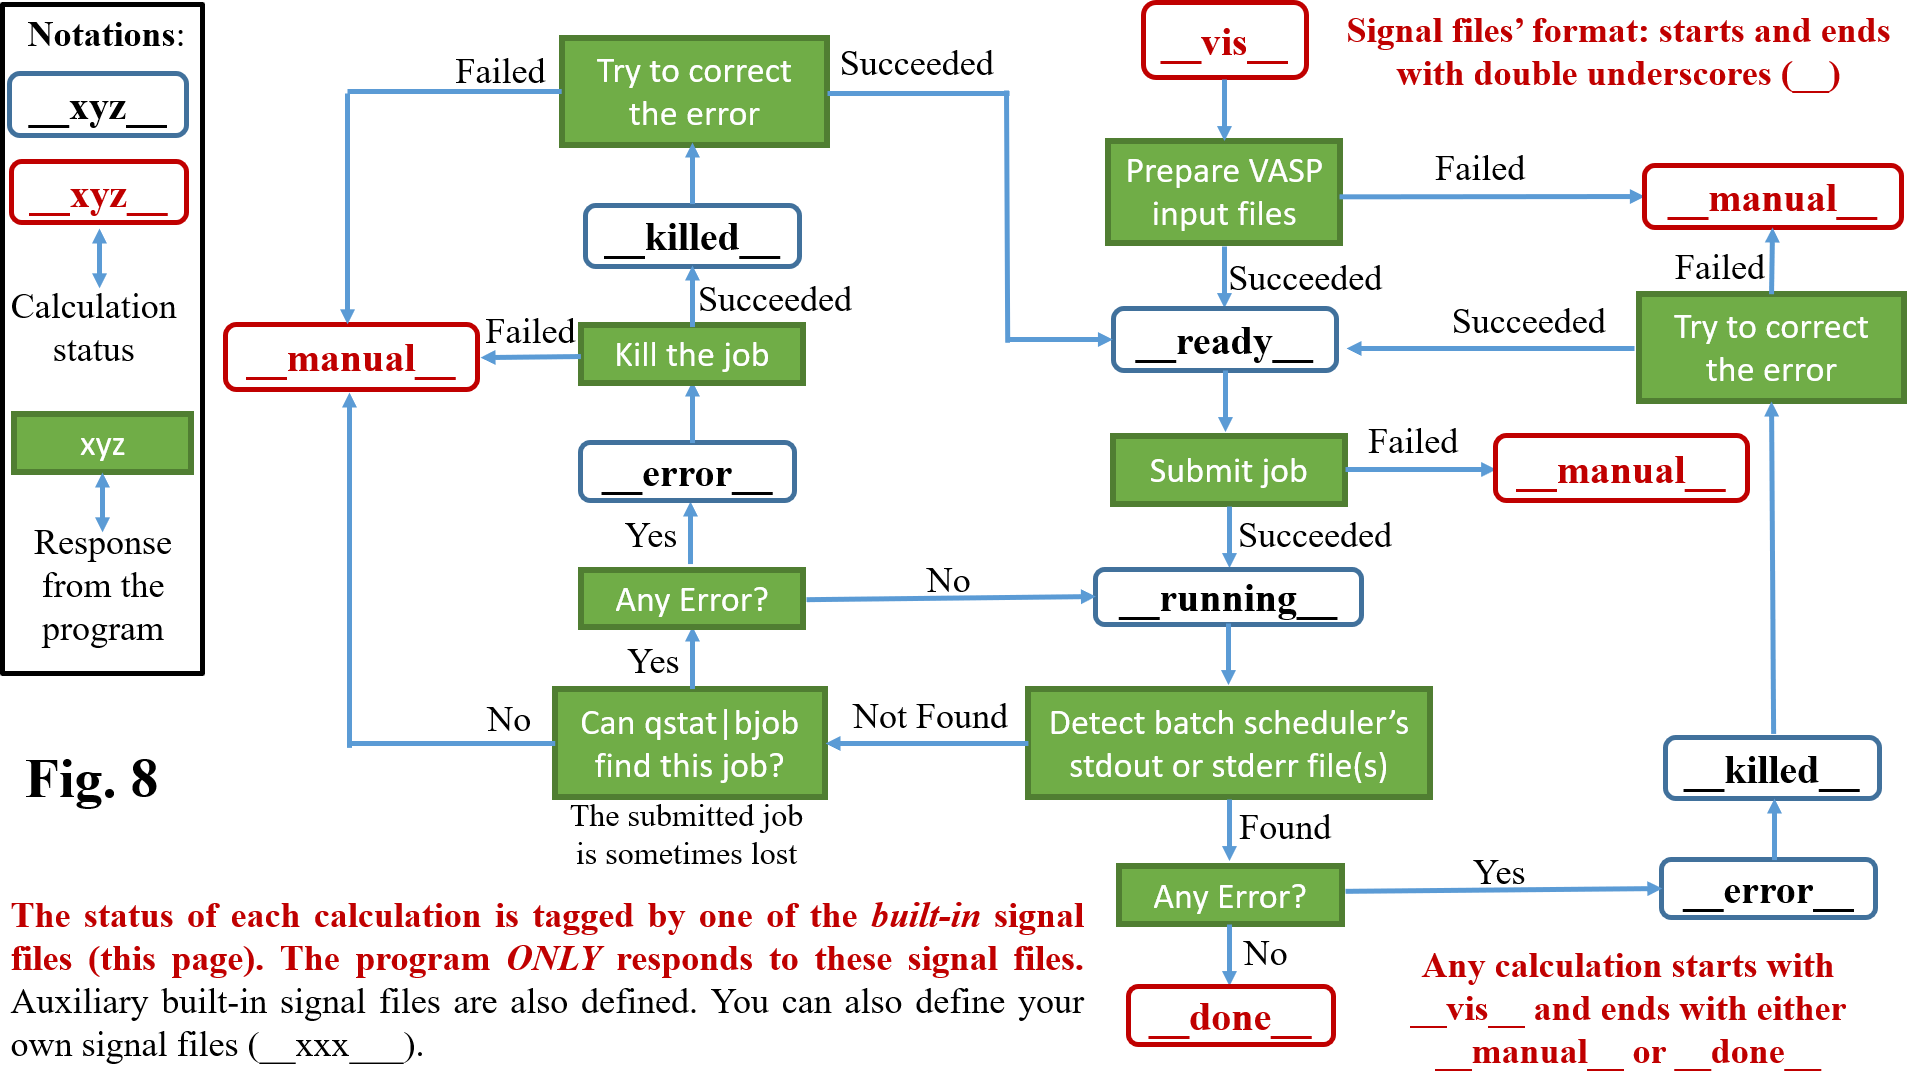
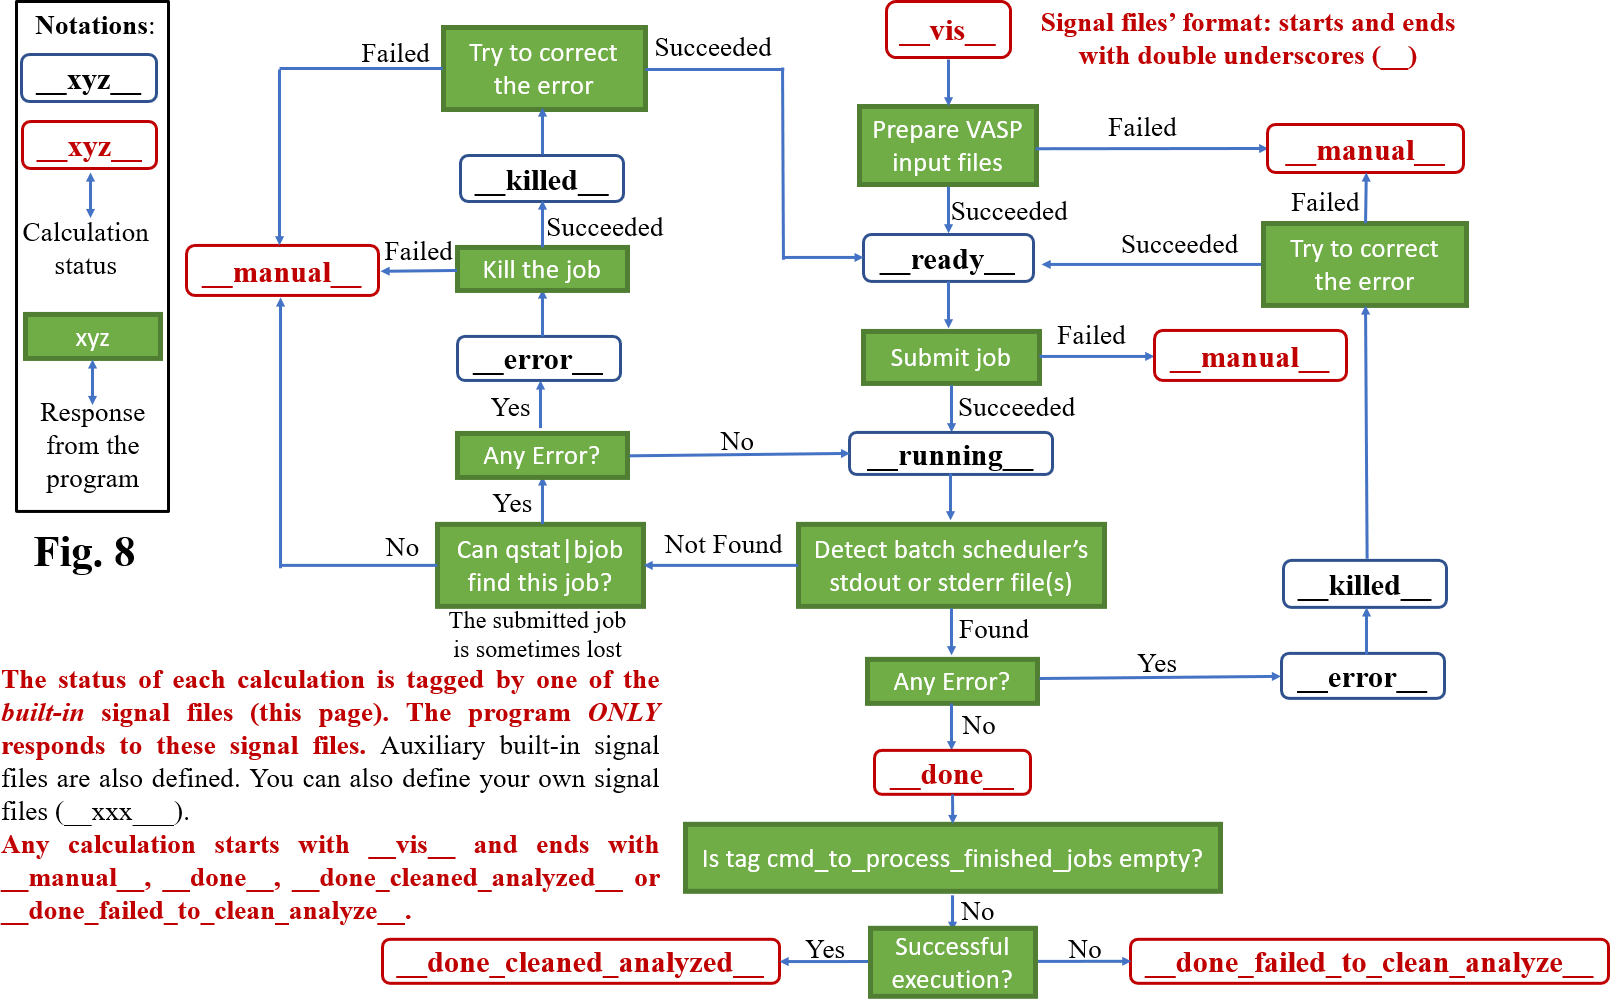
create tag cmd_to_process_finished_jobs to clean and analyze successfully finished calculations

diff --git a/HTC_lib/VASP/Job_Management/Check_and_update_calculation_status.py b/HTC_lib/VASP/Job_Management/Check_and_update_calculation_status.py
@@ -38,6 +38,7 @@ def update_job_status(cal_folder, workflow):
     job_status_dict = check_calculations_status(cal_folder=cal_folder)
     update_killed_jobs_status(killed_jobs_list=job_status_dict["killed_folder_list"], workflow=workflow)
     update_sub_dir_cal_jobs_status(sub_dir_cal_jobs_list=job_status_dict["sub_dir_cal_folder_list"], workflow=workflow)
+    clean_analyze_or_update_successfully_finished_jobs(done_jobs_list=job_status_dict["done_folder_list"], workflow=workflow)
 
 
 # In[2]:
@@ -114,13 +115,16 @@ def check_calculations_status(cal_folder):
         - killed_folder_list (list): a list of absolute pathes where the calculation has been killed.
         - manual_folder_list (list): a list of absolute pathes where the error can not be fixed automatically.
         - vis_folder_list (list): a list of absolute pathes where the input files for calculations need to be prepared
+        - ...
     """
     signal_file_list = ["__manual__", "__test__", "__vis__", "__skipped__", "__ready__", "__prior_ready__", "__sub_dir_cal__",
-                        "__error__", "__running__", "__done__", "__killed__"]
+                        "__error__", "__running__", "__done__", "__done_cleaned_analyzed__", "__done_failed_to_clean_analyze__", "__killed__"]
     job_status_folder_list = ["manual_folder_list", "test_folder_list", "vis_folder_list", "skipped_folder_list", 
                               "ready_folder_list", "prior_ready_folder_list", "sub_dir_cal_folder_list", "error_folder_list", "running_folder_list", 
-                              "done_folder_list", "killed_folder_list", "other_folder_list"]
+                              "done_folder_list", "done_cleaned_analyzed_folder_list", "done_failed_to_clean_analyze_folder_list", 
+                              "killed_folder_list", "other_folder_list"]
     job_status_dict = {key: [] for key in job_status_folder_list}
+    
     
     jobs_in_str = decorated_subprocess_check_output("find %s -type f -name INCAR" % cal_folder)[0]
     job_list = []
@@ -302,8 +306,39 @@ def update_sub_dir_cal_jobs_status(sub_dir_cal_jobs_list, workflow):
         
         Execute_shell_cmd(cal_loc=sub_dir_cal_path, user_defined_cmd_list=current_firework["sub_dir_cal_cmd"],
                           where_to_execute=sub_dir_cal_path, defined_by_which_htc_tag="sub_dir_cal_cmd")
-    
-    
 
-    
+
+# In[ ]:
+
+
+def clean_analyze_or_update_successfully_finished_jobs(done_jobs_list, workflow):
+    """
+    For a calculation labelled by __done__, the operations defined by HTC tag cmd_to_process_finished_jobs will be called to
+    clean or analyze the calculation. After these operations are successfully called, __done__ --> __done_cleaned_analyzed__.
+    If any error happens, __done__ --> __done_failed_to_clean_analyze__
+    Of course, the calculation status remains at __done__ if no operation is defined by cmd_to_process_finished_jobs
+    Note that if you are going to delete files/folders, please make sure the command(s) capable of ingoring non-existent files/folders.
+    E.g. rm -rf file1 file2 file3 folder1
+    """
+    for cal_loc in done_jobs_list:      
+        current_firework = get_current_firework_from_cal_loc(cal_loc, workflow)
+        
+        if current_firework["cmd_to_process_finished_jobs"] == []:
+            continue()
+        
+        log_filename = os.path.join(cal_loc, "log.txt")
+        
+        status = Execute_shell_cmd(cal_loc=cal_loc, user_defined_cmd_list=current_firework["cmd_to_process_finished_jobs"], 
+                                   where_to_execute=cal_loc, defined_by_which_htc_tag="cmd_to_process_finished_jobs")
+        
+        if status:
+            decorated_os_rename(loc=cal_loc, old_filename="__done__", new_filename="__done_cleaned_analyzed__")
+            with open(log_filename, "a") as log_f:
+                log_f.write("\tSuccessfully cleaned or analyzed the calculation: __done__ --> __done_cleaned_analyzed__\n")
+        else:
+            decorated_os_rename(loc=cal_loc, old_filename="__done__", new_filename="__done_failed_to_clean_analyze__")
+            os.remove(os.path.join(cal_loc, "__manual__")) #__manual__ is created by Execute_shell_cmd if an error happens
+            with open(log_filename, "a") as log_f:
+                log_f.write("\tFailed to clean or analyze the calculation. See above for the details\n")
+                log_f.write("\tdelete __manual__ && __done__ --> __done_failed_to_clean_analyze__")
 

diff --git a/HTC_lib/VASP/Preprocess_and_Postprocess/Parse_calculation_workflow.py b/HTC_lib/VASP/Preprocess_and_Postprocess/Parse_calculation_workflow.py
@@ -262,7 +262,7 @@ def parse_firework_block(block_str_list, step_no, HTC_lib_loc):
                     "kpoints_type", "denser_kpoints", "reciprocal_density", "kpoints_line_density",
                     "intersections", "force_gamma", "2d_system", "sort_structure", "max_ionic_step", "user_defined_cmd", 
                     "final_user_defined_cmd", "user_defined_postprocess_cmd", 
-                    "incar_cmd", "kpoints_cmd", "poscar_cmd", "potcar_cmd",
+                    "incar_cmd", "kpoints_cmd", "poscar_cmd", "potcar_cmd", "cmd_to_process_finished_jobs",
                     "sub_dir_cal", "sub_dir_cal_cmd", "preview_vasp_inputs",
                     "job_submission_script", "job_submission_command", "job_name", "max_running_job", "where_to_parse_queue_id",
                     "re_to_parse_queue_id", "job_query_command", "job_killing_command", "queue_stdout_file_prefix", "queue_stdout_file_suffix",
@@ -407,7 +407,8 @@ def parse_firework_block(block_str_list, step_no, HTC_lib_loc):
        
     
     #6. cmd defined by users
-    for tag in ["user_defined_cmd", "final_user_defined_cmd", "user_defined_postprocess_cmd", "incar_cmd", "kpoints_cmd", "poscar_cmd", "potcar_cmd"]:
+    for tag in ["user_defined_cmd", "final_user_defined_cmd", "user_defined_postprocess_cmd", "incar_cmd", "kpoints_cmd", "poscar_cmd", 
+                "potcar_cmd", "cmd_to_process_finished_jobs"]:
         if tag in firework.keys(): 
             firework[tag] = [cmd_.strip() for cmd_ in firework[tag].split(",") if cmd_.strip()]
         else:

diff --git a/HTC_lib/VASP/Preprocess_and_Postprocess/new_Preprocess_and_Postprocess.py b/HTC_lib/VASP/Preprocess_and_Postprocess/new_Preprocess_and_Postprocess.py
@@ -1,7 +1,7 @@
 #!/usr/bin/env python
 # coding: utf-8
 
-# In[1]:
+# In[2]:
 
 
 import os, pprint, sys, shutil
@@ -17,7 +17,7 @@ if HTC_package_path not in sys.path:
 
 from pymatgen import Structure
 
-from HTC_lib.VASP.Miscellaneous.Utilities import get_time_str, copy_and_move_files, find_next_name, decorated_os_rename
+from HTC_lib.VASP.Miscellaneous.Utilities import get_time_str, copy_and_move_files, find_next_name, decorated_os_rename#, get_current_firework_from_cal_loc
 from HTC_lib.VASP.Miscellaneous.Execute_bash_shell_cmd import Execute_shell_cmd
 
 from HTC_lib.VASP.INCAR.Write_VASP_INCAR import Write_Vasp_INCAR

diff --git a/Manual.md b/Manual.md
@@ -587,6 +587,15 @@ These tags work in the same way as `user_defined_cmd` and `final_user_defined_cm
 
 ------------------------------------
 
+**cmd\_to\_process\_finished\_jobs**, optional,   
+This tag defines the command(s) to clean or analyze the successfully finished calculation labelled by `__done__`. It has the same format as `user_defined_cmd, final_user_defined_cmd, ...`   
+If the commands are successfully called, change `__done__` to `__done_cleaned_analyzed__`; Otherwise, change `__done__` to `__done_failed_to_clean_analyze__`.   
+*Of course, if this tag is not set, the calculation status will remain at `__done__`.*      
+*Note that if you are going to delete output files using this tag, ensure that the command(s) is(are) capable of ignoring non-existent files.* **You should be cautious about file/folder removal because this action is not reversible.**    
+Default: empty
+
+--------------------------------------------
+
 **user\_defined\_postprocess\_cmd**, optional,  
 This tag allows users to execute a series of commands to perform user-defined firetasks for post-process. *This tag is currently not available*  
 *If there are multiple commands, separate them with commas.*  
@@ -765,9 +774,11 @@ When the workflow is running, some **built-in** signal file will be present in e
 - queue system's `stdout` and `stderr`: The program will think the job is done and all error checkers will be called to check errors. If any errors are found, `__running__` --> `__error__`; Otherwise, `__running__` --> `__done__`
 - `__manual__`: The program cannot fix the error and the error should be fixed manually.
 - `__bad_termination_`: When the job fails due to the error `=   BAD TERMINATION OF ONE OF YOUR APPLICATION PROCESSES` in file vasp.out **for the first time**, the program will **resubmit** the job automatically and create this signal file. When such error happens again, the presence of this signal file tells the program that this is the second time to encounter such error. In this case, the program cannot automatically handle this error anymore, `__killed__` --> `__manual__`.
-- `__skipped__`: The jobs labeled by this signal file will be skipped. Users can simply judge if a job is necessary via tag `user_defined_cmd`/`final_user_defined_cmd`. If the calculation is unnecessary, users can generate this signal file to skip unnecessary calculations.
+- `__skipped__`: The jobs labeled by this signal file will be skipped. Users can simply judge if a job is necessary via tag `user_defined_cmd`/`final_user_defined_cmd`. If the calculation is unnecessary, users can generate this signal file to skip unnecessary calculations.  
+- `__done_cleaned_analyzed__`: When the command(s) defined by `cmd_to_process_finished_jobs` is successfully run on a job labelled by `__done__`, `__done__` --> `__done_cleaned_analyzed__`.   
+- `__done_failed_to_clean_analyze__`: When the command(s) defined by `cmd_to_process_finished_jobs` fails to run on a job labelled by `__done__`, `__done__` --> `__done_failed_to_clean_analyze__`.   
 
-***Signal file priority:*** `__manual__` > `__vis__` > `__skipped__` > `__ready__` > `prior_ready__` > `__sub_dir_cal__` > `__error__` > `__running__` > `__done__` > `__killed__`  
+***Signal file priority:*** `__manual__` > `__vis__` > `__skipped__` > `__ready__` > `prior_ready__` > `__sub_dir_cal__` > `__error__` > `__running__` > `__done__` > `__done_cleaned_analyzed__` > `__done_failed_to_clean_analyze__` > `__killed__`  
 
 
 **Note that when you manually fix an error or tune VASP input files under a filework folder, DO remove these signal tags so that the program has nothing to do with this firework folder. After modifications, you have two ways to bring it back to the program scope (_The second way is recommended_):**

diff --git a/README.md b/README.md
@@ -12,8 +12,6 @@
 
 		
 3. upgrade to python3
-
-4. add a new calculation status file named as `__done_cleaned__`. The program is going to the calculation folder labelled by `__done__` and delete the irrelevant files specified by a new tag `del_irrelevant_output_files`
 	
 7. set DIPOL
 
